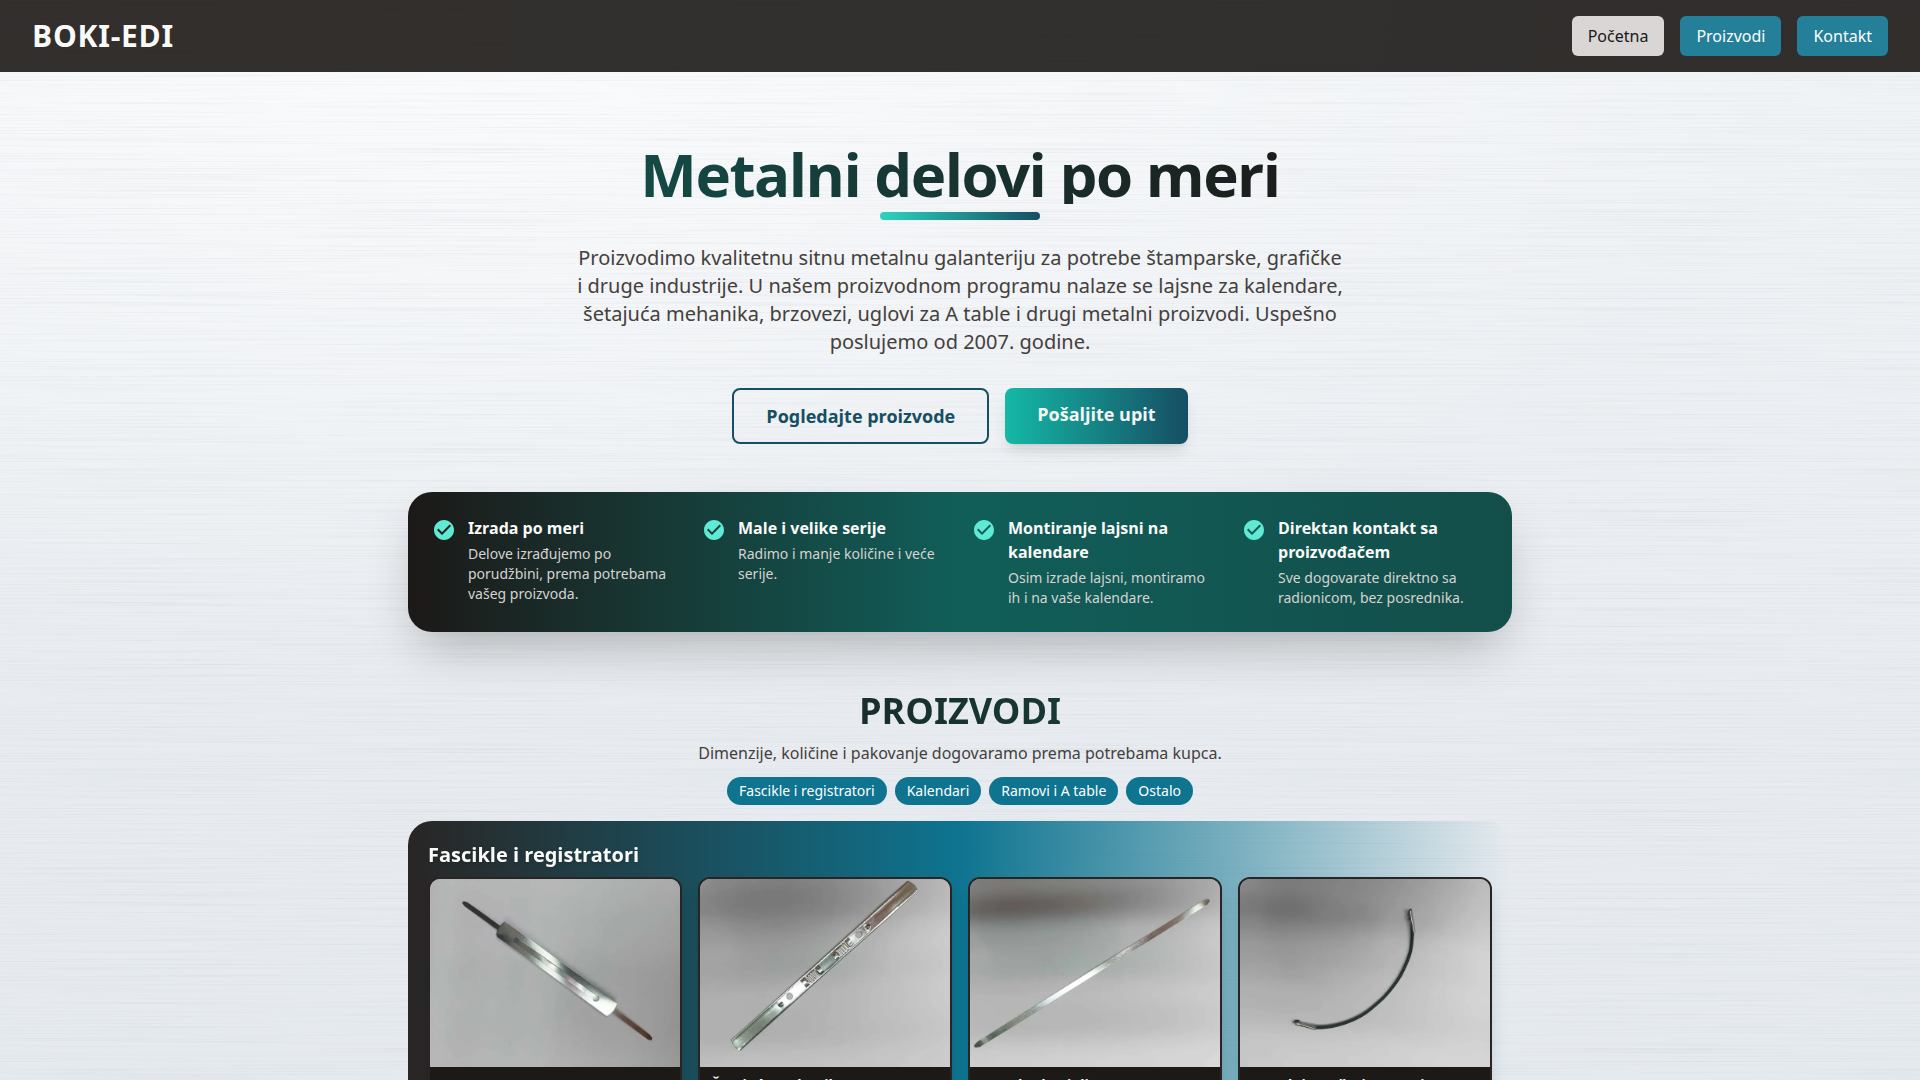
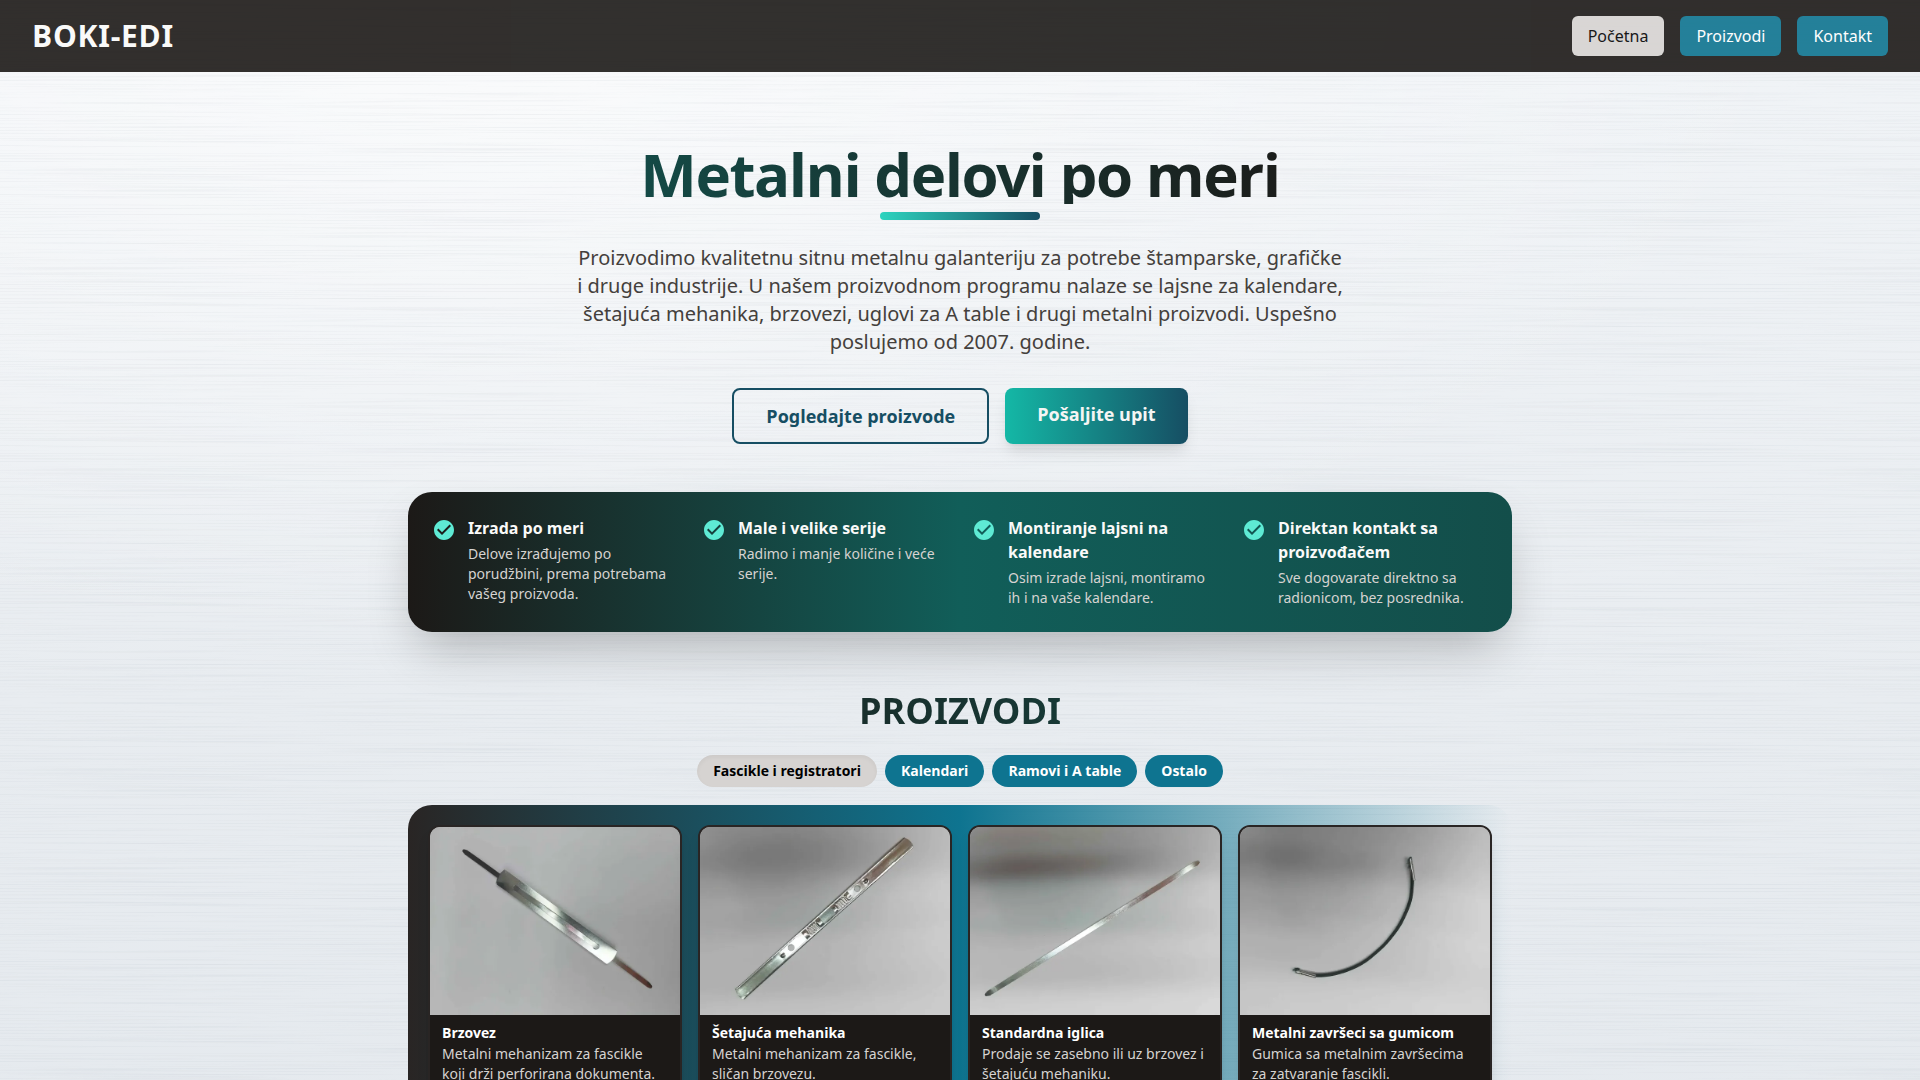
Retake screenshots and update the brief's measurements for the tabs
- docs/screenshots/ retaken with `npm run screenshots` (tabs, hover-ready
  cards, revealed sections); whole page now 1366 x 2008 and 390 x 3282
- Design brief, sections 3, 4 and 6: page heights, products panel, tab
  row and the vertical map re-measured on the built site

Changed region(s): [[0.2188, 0.6722, 0.7812, 1.0]]

diff --git a/docs/design-brief.md b/docs/design-brief.md
@@ -112,7 +112,8 @@ There is no web font. The site uses the system font stack (Tailwind `font-sans`)
 | Section padding | Hero 64 px top (48 px on mobile) and 24 px bottom; benefits 24 px top and bottom; products and contact 32 px top and bottom; 20 px gap above the footer |
 | Benefits panel | 1104 × 140 px desktop; 358 × 293 px on a phone (2 × 2) |
 | Product card | 254 × 307 px on desktop, 4 per row, 16 px gap, photo 250 × 188 (4:3). On a phone 161 × 249 px, 2 per row, 12 px gap, photo 157 × 118. |
-| Products panel | 1104 × 1490 px desktop; 358 × 1955 px phone |
+| Product tabs | One row of four tabs, 44 px high, centered (scrolls sideways on a phone) |
+| Products panel | Shows one group at a time; always as tall as the tallest group: 1104 × 366 px desktop; 358 × 535 px phone |
 | Contact panel | 1104 × 568 px desktop (three columns); 358 × 1292 px phone (stacked) |
 | Footer | 52 px |
 
@@ -120,11 +121,11 @@ There is no web font. The site uses the system font stack (Tailwind `font-sans`)
 
 | Screen | Page height | Screens to scroll |
 |---|---|---|
-| 1920 × 1080 | 3112 px | 2.9 |
-| 1366 × 768 | 3112 px | 4.1 |
-| 390 × 844 | 4718 px | 5.6 |
+| 1920 × 1080 | 2008 px | 1.9 |
+| 1366 × 768 | 2008 px | 2.6 |
+| 390 × 844 | 3282 px | 3.9 |
 
-Desktop height is the same at 1920 and 1366 because the content width is capped at 1152 px. The height grows whenever products are added.
+Measured after Session 3 (product groups as tabs; before: 3112 px desktop, 4718 px phone). Desktop height is the same at 1920 and 1366 because the content width is capped at 1152 px. The height grows only when the largest product group needs another row of cards.
 
 ### Vertical map (page y, in CSS px)
 
@@ -133,16 +134,16 @@ Desktop height is the same at 1920 and 1366 because the content width is capped 
 | Header | 0–72 | 0–80 |
 | Hero (full width) | 80–468: h1 144–204, paragraph 244–356, buttons 388–444 | 80–672: h1 128–218, paragraph 258–492, buttons 524–648 |
 | Benefits panel | 492–632 | 696–989 |
-| "PROIZVODI" title / note / chips | 688–733 / 741–765 / 777–805 | 1045–1090 / 1098–1146 / 1158–1222 |
-| Products panel | 821–2311 | 1238–3193 |
-| "KONTAKT" title | 2375–2420 | 3257–3302 |
-| Contact panel | 2440–3008 | 3322–4614 |
-| Footer | 3060–3112 | 4666–4718 |
+| "PROIZVODI" title / tab row | 688–733 / 749–793 | 1045–1090 / 1106–1150 |
+| Products panel / note below it | 805–1171 / 1183–1207 | 1162–1697 / 1709–1757 |
+| "KONTAKT" title | 1271–1316 | 1821–1866 |
+| Contact panel | 1336–1904 | 1886–3178 |
+| Footer | 1956–2008 | 3230–3282 |
 
 ### First screen
 
-- **1920 × 1080:** header, hero, benefits, products title and the top of the first row of cards.
-- **1366 × 768:** header, hero, benefits, and the products title and note (cut off at the bottom edge).
+- **1920 × 1080:** header, hero, benefits, products title, the tab row and the top of the first row of cards.
+- **1366 × 768:** header, hero, benefits and the products title; the tab row starts at the bottom edge.
 - **390 × 844:** header, hero, and the top of the benefits panel.
 
 ---
@@ -154,10 +155,10 @@ Desktop height is the same at 1920 and 1366 because the content width is capped 
    - the paragraph
    - the outlined "Pogledajte proizvode" button (text and border)
 2. **Behind the section titles.** **Text sits directly on the background here too:**
-   - "PROIZVODI" and the note below it
+   - "PROIZVODI", and the note below the products panel
    - "KONTAKT"
-   - the group chips, which have their own fill
-3. **Between the sections:** about 24–60 px gaps (468–492, 632–688, 805–821, 2311–2375 and 3008–3060 on desktop).
+   - the product tabs, which have their own fill
+3. **Between the sections:** about 12–64 px gaps (468–492, 632–688, 793–805, 1207–1271 and 1904–1956 on desktop).
 4. **Side strips along the whole page:** 408 px per side at 1920, 131 px at 1366, and only 16 px on a phone.
 5. **Through the transparent right ends of two panels:**
    - The products panel fades to transparent towards the right, so the background shows behind the 4th column of cards and in the empty right part of rows with 2–3 cards.
@@ -220,8 +221,8 @@ The screenshots are in `docs/screenshots/`. They come from the built site in hea
 | `first-screen-1920x1080.png` | First screen, full-HD desktop |
 | `first-screen-1366x768.png` | First screen, common laptop |
 | `first-screen-390x844.png` | First screen, phone (iPhone 12–15 size) |
-| `full-page-1366x768.jpg` | Whole page at 1366 wide (1366 × 3112) |
-| `full-page-390x844.jpg` | Whole page on a phone (390 × 4718) |
+| `full-page-1366x768.jpg` | Whole page at 1366 wide (1366 × 2008) |
+| `full-page-390x844.jpg` | Whole page on a phone (390 × 3282) |
 
 The screenshots show the brushed-steel background. To retake them after a change, run `npm run build`, then `npm run screenshots`.
 
